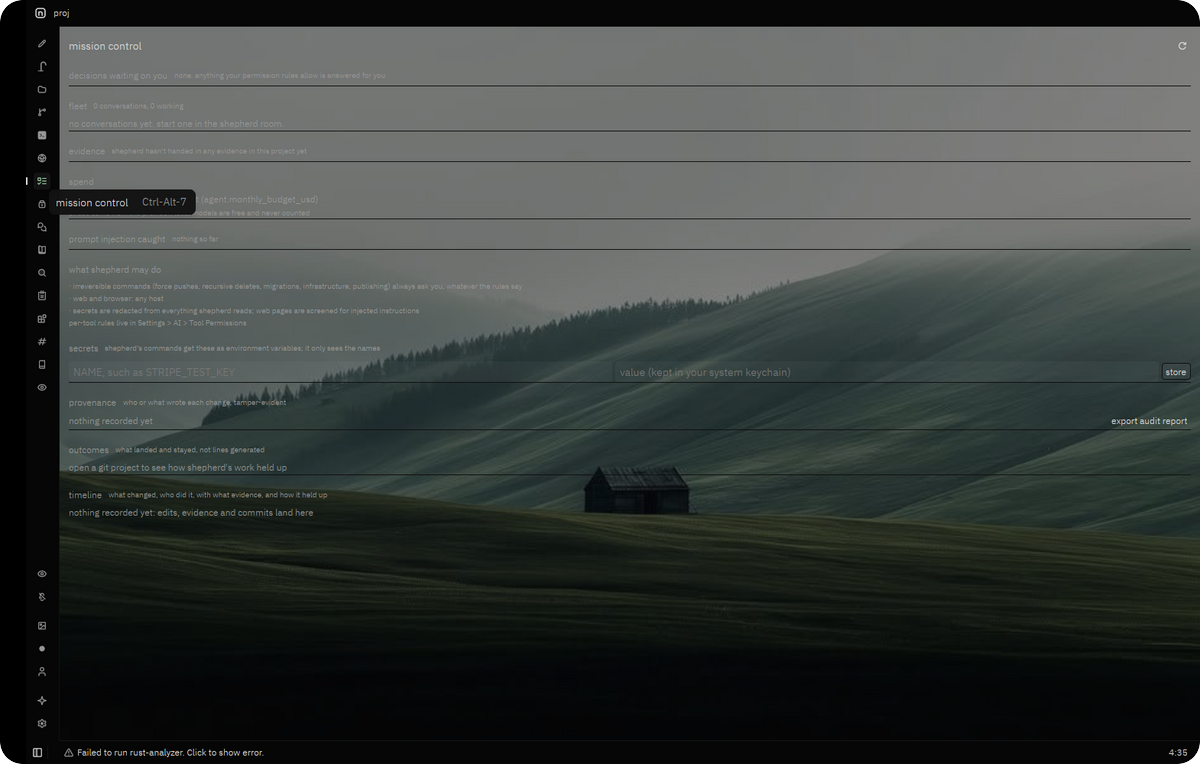
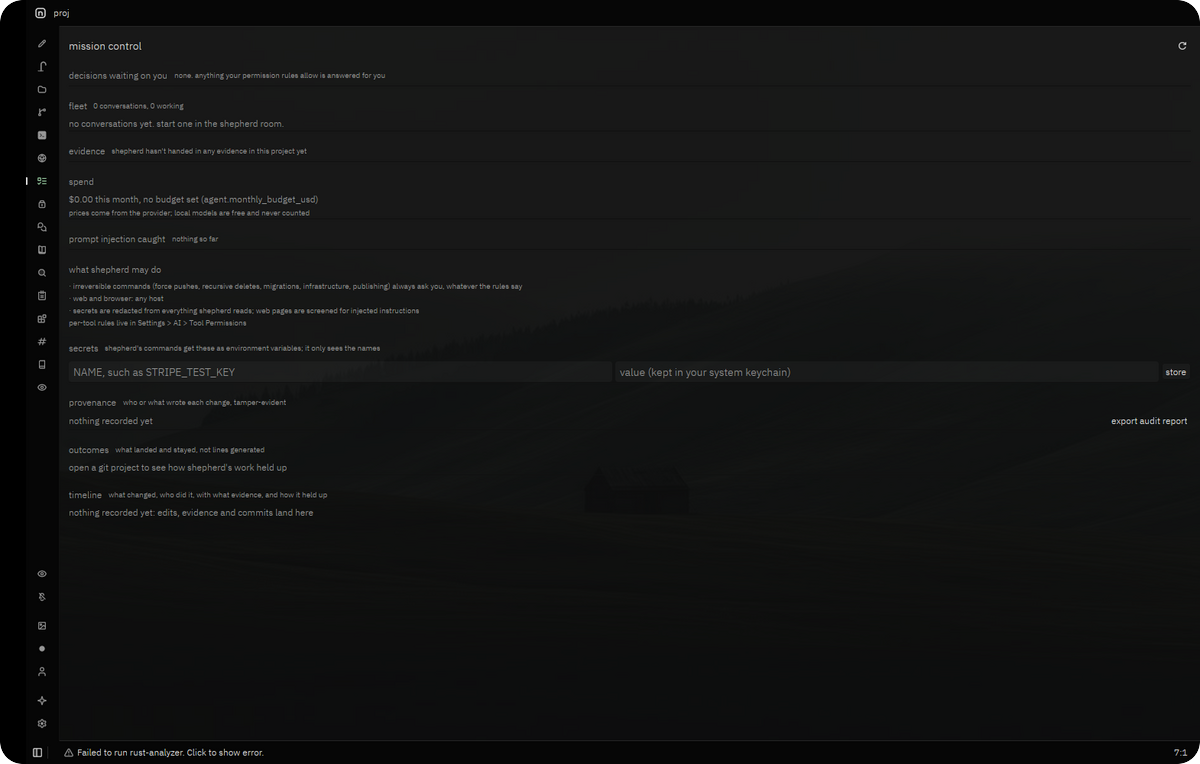
Raise contrast in the noah theme and back full-screen rooms
- Focus and selection borders go from 1.5:1 to 3.6:1, line numbers
  from 3.1:1 to 5:1, placeholder text from 4.5:1 to 6.3:1.
- Editor and panel backgrounds cover the wallpaper at 88-90% instead
  of 75-80%, so muted text stays above 4.5:1 even over a white
  wallpaper.
- Mission control and the device room draw the panel background, so
  their text no longer sits directly on the photo.

Claude-Session: https://claude.ai/code/session_01EhGequBV2f2cWf42hYUEcy

diff --git a/crates/agent_ui/src/mission_control.rs b/crates/agent_ui/src/mission_control.rs
@@ -1430,6 +1430,9 @@ impl Render for MissionControlPanel {
             .key_context("MissionControlPanel")
             .track_focus(&self.focus_handle)
             .size_full()
+            // Opens over the wallpaper; without a backing its small text sits
+            // straight on the photo.
+            .bg(cx.theme().colors().panel_background)
             .px_3()
             .pb_4()
             .overflow_y_scroll()

diff --git a/crates/device_room/src/device_room.rs b/crates/device_room/src/device_room.rs
@@ -2345,6 +2345,8 @@ impl Render for DevicePanel {
             .key_context("DevicePanel")
             .track_focus(&self.focus_handle)
             .size_full()
+            // Opens over the wallpaper; the backing keeps its text readable.
+            .bg(cx.theme().colors().panel_background)
             .px_3()
             .pb_4()
             .overflow_y_scroll()
